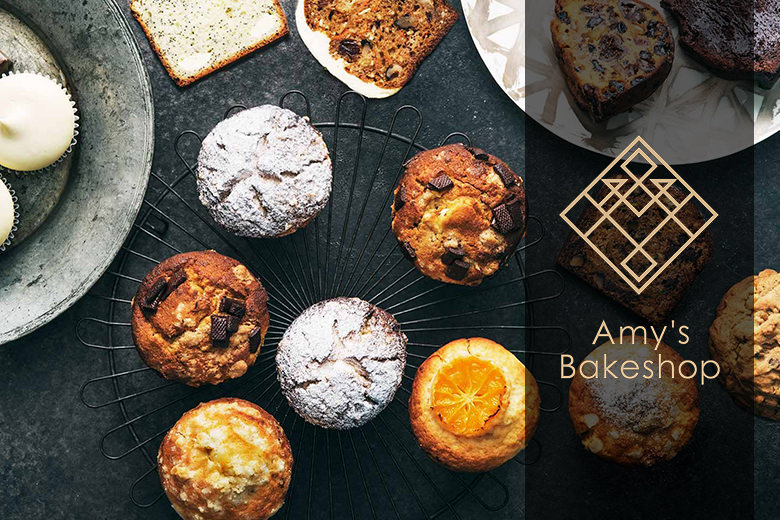
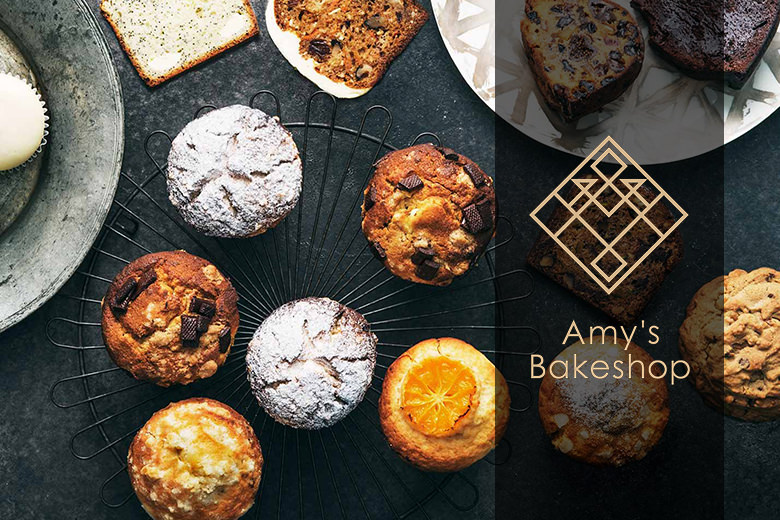
2019.04.03 Amy's Bakeshop

diff --git a/develop/gourmet/amysbakeshop.html b/develop/gourmet/amysbakeshop.html
@@ -1,0 +1,118 @@
+<!DOCTYPE html>
+<html lang="ja">
+	<head prefix="og: http://ogp.me/ns# fb: http://ogp.me/ns/fb# article: http://ogp.me/ns/article#">
+		<!--#include virtual="/_inc/gtm_head.html"-->
+		<meta charset="utf-8">
+		<meta http-equiv="X-UA-Compatible" content="IE=edge">
+		<title>こだわりの詰まったお菓子！家庭的なアメリカの焼き菓子店「Amy's Bakeshop」｜STOCKNOWのおしゃなグルメ部門</title>
+		<!--#include virtual="/_inc/head_meta_name.html"-->
+		<meta name="description" content="こだわりの詰まったお菓子！家庭的なアメリカの焼き菓子店「Amy's Bakeshop」。STOCKNOWでは各店舗や期間限定の催事場情報も日々更新しております。その他にも見た目もイイ、センスもイイ手土産ギフト情報もたくさん取り揃えておりますので、ぜひご活用ください！">
+		<meta property="og:title" content="こだわりの詰まったお菓子！家庭的なアメリカの焼き菓子店「Amy's Bakeshop」｜STOCKNOWのおしゃなグルメ部門">
+		<meta property="og:description" content="こだわりの詰まったお菓子！家庭的なアメリカの焼き菓子店「Amy's Bakeshop」。STOCKNOWでは各店舗や期間限定の催事場情報も日々更新しております。その他にも見た目もイイ、センスもイイ手土産ギフト情報もたくさん取り揃えておりますので、ぜひご活用ください！">
+		<meta property="og:url" content="https://stocknow.info/gourmet/aymsbakeshop.html">
+		<meta property="og:image" content="https://stocknow.info/img/common/og-image.jpg">
+		<meta property="og:type" content="article">
+		<!--#include virtual="/_inc/head_meta_property.html"-->
+		<!--#include virtual="/_inc/head_link.html"-->
+		<link rel="stylesheet" href="/css/p_entry.css">
+	</head>
+	<body class="p-aymsbakeshop.g-gourmet" id="p-entry">
+		<!--#include virtual="/_inc/gtm_body.html"-->
+		<!--#include virtual="/_inc/header.html"-->
+		<div id="contents">
+			<main id="main">
+				<article class="main_inner">
+					<header class="entry_header">
+						<div class="mainvisual">
+							<p class="mainvisual_pic"><img src="/gourmet/img/pic_amysbakeshop_01.jpg" alt="Amy's Bakeshop"></p>
+							<p class="mainvisual_date">2019.04.03</p>
+							<h1 class="mainvisual_ttl"><span>こだわりの詰まったお菓子！<br>家庭的なアメリカの焼き菓子店「Amy's Bakeshop」</span></h1>
+						</div>
+						<ul class="c-tag_list">
+							<li><a href="/"><span>タグ1</span></a></li>
+							<li><a href="/"><span>タグあああああ</span></a></li>
+						</ul>
+					</header>
+					<!--#include virtual="/_inc/advertise780.html"-->
+					<div class="entry_content">
+						<div class="mokuji">
+							<p class="m-titleType03">目次</p>
+							<ul class="mokuji_list">
+								<li><a href="#anchor01">焼き菓子専門店「Amy's Bakeshop」</a></li>
+								<li><a href="#anchor02">おすすめの焼き菓子6選！！</a></li>
+								<li><a href="#anchor03">お菓子の「書籍」と「お菓子作りスクール」</a></li>
+							</ul>
+						</div>
+						<section class="entry_section" id="anchor01">
+							<h2 class="m-titleType02">焼き菓子専門店「Amy's Bakeshop」</h2>
+							<div class="entry_pic m-bySide is-2block">
+								<div><img src="/gourmet/img/pic_amysbakeshop_sub01.jpg" alt="焼き菓子専門店「Amy's Bakeshop」イメージ"></div>
+								<div><img src="/gourmet/img/pic_amysbakeshop_sub02.jpg" alt="焼き菓子専門店「Amy's Bakeshop」イメージ"></div>
+							</div>
+							<p class="entry_txt">JRの西荻窪から徒歩10分弱のところに焼き菓子専門店「Amy's Bakeshop」があります。「Amy's Bakeshop」はNY風だけど素朴で家庭的な洋菓子をメインに取り扱っていて、女性オーナーが一人で営んでいます。<br>メニューは焼き込まれたスコーンやマフィン、シックな色合いのパウンドケーキがディスプレイ販売されていてとてもおしゃれです！こだわりの詰まったお菓子を求めて、連日多くのファンが行列をつくります。</p>
+							<div class="entry_mapIframe">
+								<iframe src="https://www.google.com/maps/embed?pb=!1m18!1m12!1m3!1d3239.7841411726795!2d139.59941541525953!3d35.706929180188304!2m3!1f0!2f0!3f0!3m2!1i1024!2i768!4f13.1!3m3!1m2!1s0x6018ee0e7f16f167%3A0x3c732507705f819d!2z44Ko44Kk44Of44O844K6IOODmeOCpOOCr-OCt-ODp-ODg-ODlw!5e0!3m2!1sja!2sjp!4v1554281103888!5m2!1sja!2sjp" width="1020" height="500" allowfullscreen></iframe>
+							</div>
+							<div class="entry_shop">
+								<div class="m-bySide is-2block shop_list">
+									<section>
+										<h4 class="shop_name">Amy's Bakeshop</h4>
+										<p class="shop_pin">〒167-0042 東京都杉並区西荻北２丁目２６−８ 1F</p>
+										<p class="shop_time">11:00 ~ 19:00<br>※定休日：月曜/火曜（祝日の場合は営業）</p>
+										<p class="shop_item">キャロットケーキ、ブラウニー、ラムフルーツケーキ、ニューヨークチーズケーキ、マフィン、クッキー etc...</p>
+									</section>
+								</div>
+							</div>
+						</section>
+						<section class="entry_section" id="anchor02">
+							<h2 class="m-titleType02">おすすめの焼き菓子6選！！</h2>
+							<div class="m-bySide is-2block">
+								<section>
+									<p class="entry_pic"><img src="/gourmet/img/pic_amysbakeshop_sub03.jpg" alt="マフィン"></p>
+									<h3 class="amysbakeshop_txt"><span><em>Muffins</em> [マフィン</span>]<br>ベリー＆ベリー、レモン＆カスタード、バナナ＆チョコチップ、ブルーチーズ＆フィグ＆ソルト、オレンジ＆アーモンド、バター＆ソルトなど。</h3>
+								</section>
+								<section>
+									<p class="entry_pic"><img src="/gourmet/img/pic_amysbakeshop_sub04.jpg" alt="ニューヨークチーズケーキ"></p>
+									<h3 class="amysbakeshop_txt"><span><em>New York Cheesecake</em> [ニューヨークチーズケーキ</span>]<br>濃厚でなめらかな食感が持ち味のチーズケーキ。</h3>
+								</section>
+								<section>
+									<p class="entry_pic"><img src="/gourmet/img/pic_amysbakeshop_sub05.jpg" alt="ブラウニー"></p>
+									<h3 class="amysbakeshop_txt"><span><em>Brownies</em> [ブラウニー</span>]<br>ファッジタイプのブラウニー生地に、カカオニブとチョコレートチャンクの食感がアクセント。</h3>
+								</section>
+								<section>
+									<p class="entry_pic"><img src="/gourmet/img/pic_amysbakeshop_sub06.jpg" alt="バナナチョコレートブレッド"></p>
+									<h3 class="amysbakeshop_txt"><span><em>Banana Chocolate Bread</em> [バナナチョコレートブレッド</span>]<br>王道のバナナ＆チョコレートをより繊細に。</h3>
+								</section>
+								<section>
+									<p class="entry_pic"><img src="/gourmet/img/pic_amysbakeshop_sub07.jpg" alt="スコーン"></p>
+									<h3 class="amysbakeshop_txt"><span><em>Scones</em> [スコーン</span>]<br>100％全粒粉で作っています。粉の自然な甘みとクリスピーな食感を楽しんでください。プレーンとオートミールレーズン（土日祝のみ）。</h3>
+								</section>
+								<section>
+									<p class="entry_pic"><img src="/gourmet/img/pic_amysbakeshop_sub08.jpg" alt="マロンケーキ"></p>
+									<h3 class="amysbakeshop_txt"><span><em>Marron Cake</em> [マロンケーキ</span>]<br>栗の風味とコクが口に広がります。秋冬の季節にはとくに、ぜひ召し上がってください。</h3>
+								</section>
+							</div>
+						</section>
+						<section class="entry_section" id="anchor03">
+							<h2 class="m-titleType02">お菓子の「書籍」と「お菓子作りスクール」</h2>
+							<div class="m-bySide is-2block">
+								<section>
+									<p class="entry_pic"><img src="/gourmet/img/pic_amysbakeshop_sub09.jpg" alt="書籍"></p>
+									<h3 class="amysbakeshop_txt"><span><em>BOOK</em> [書籍</span>]<br>家庭でも本格的な味を手軽に再現できるレシピを紹介されています。マフィンもケーキも、バターを使ったレシピとオイルを使ったレシピがあるので、風味や味の違いなど、幅広く楽しめます書籍になっています。</h3>
+								</section>
+								<section>
+									<p class="entry_pic"><img src="/gourmet/img/pic_amysbakeshop_sub10.jpg" alt="スクール"></p>
+									<h3 class="amysbakeshop_txt"><span><em>SCHOOL</em> [スクール</span>]<br>「Amy's Bakeshop」のお菓子の味をお伝えするビギナー向けの菓子教室です。数あるオリジナルレシピの中からひと月に1レシピのペースで、基本的で丁寧な手仕事をオーナー自らお教えてもらえます。</h3>
+								</section>
+							</div>
+						</section>
+					</div>
+					<!--#include virtual="/_inc/entry_sns.html"-->
+					<!--#include virtual="/_inc/relation_gourmet.html"-->
+				</article>
+			</main>
+			<!--#include virtual="/_inc/footer.html"-->
+		</div>
+		<!--#include virtual="/_inc/script.html"-->
+	</body>
+</html>

diff --git a/develop/_inc/list_gourmet.html b/develop/_inc/list_gourmet.html
@@ -19,6 +19,15 @@
 		<li><a href="/"><span>タグあああああ</span></a></li>
 	</ul>
 </section>
+<section><a href="/gourmet/amysbakeshop.html">
+		<p class="c-item_listPic"><img src="/gourmet/img/pic_amysbakeshop_01.jpg" alt="こだわりの詰まったお菓子！家庭的なアメリカの焼き菓子店「Amy's Bakeshop」"></p>
+		<p class="c-item_listDate">2019.04.03</p>
+		<h2 class="c-item_listTxt">こだわりの詰まったお菓子！家庭的なアメリカの焼き菓子店「Amy's Bakeshop」</h2></a>
+	<ul class="c-tag_list">
+		<li><a href="/"><span>タグ1</span></a></li>
+		<li><a href="/"><span>タグあああああ</span></a></li>
+	</ul>
+</section>
 <section><a href="/gourmet/inarizushi.html">
 		<p class="c-item_listPic"><img src="/gourmet/img/pic_inarizushi_01.jpg" alt="“喜ばれる” 和の手土産。食べやすさNo.1。大人の差し入れにおすすめの「いなり寿司」特集"></p>
 		<p class="c-item_listDate">2019.04.02</p>

diff --git a/develop/css/p_entry.css b/develop/css/p_entry.css
@@ -822,3 +822,15 @@
   font-size: 1.6rem;
   font-weight: 700;
 }
+
+/* ---------------------------------------------------------
+ *	amysbakeshop
+ *---------------------------------------------------------- */
+.amysbakeshop_txt {
+  margin-top: 10px;
+}
+
+.amysbakeshop_txt span {
+  font-size: 1.6rem;
+  font-weight: 700;
+}

diff --git a/develop/_sass/css/_entry/_amysbakeshop.sass b/develop/_sass/css/_entry/_amysbakeshop.sass
@@ -1,0 +1,10 @@
+@charset "utf-8"
+
+/* ---------------------------------------------------------
+ *	amysbakeshop
+ *----------------------------------------------------------
+.amysbakeshop_txt
+  margin-top: 10px
+  span
+    font-size: 1.6rem
+    font-weight: 700

diff --git a/develop/_sass/css/p_entry.sass b/develop/_sass/css/p_entry.sass
@@ -432,3 +432,4 @@
 @import "./_entry/butterbutler"
 @import "./_entry/chocolaphil"
 @import "./_entry/reserve"
+@import "./_entry/amysbakeshop"
